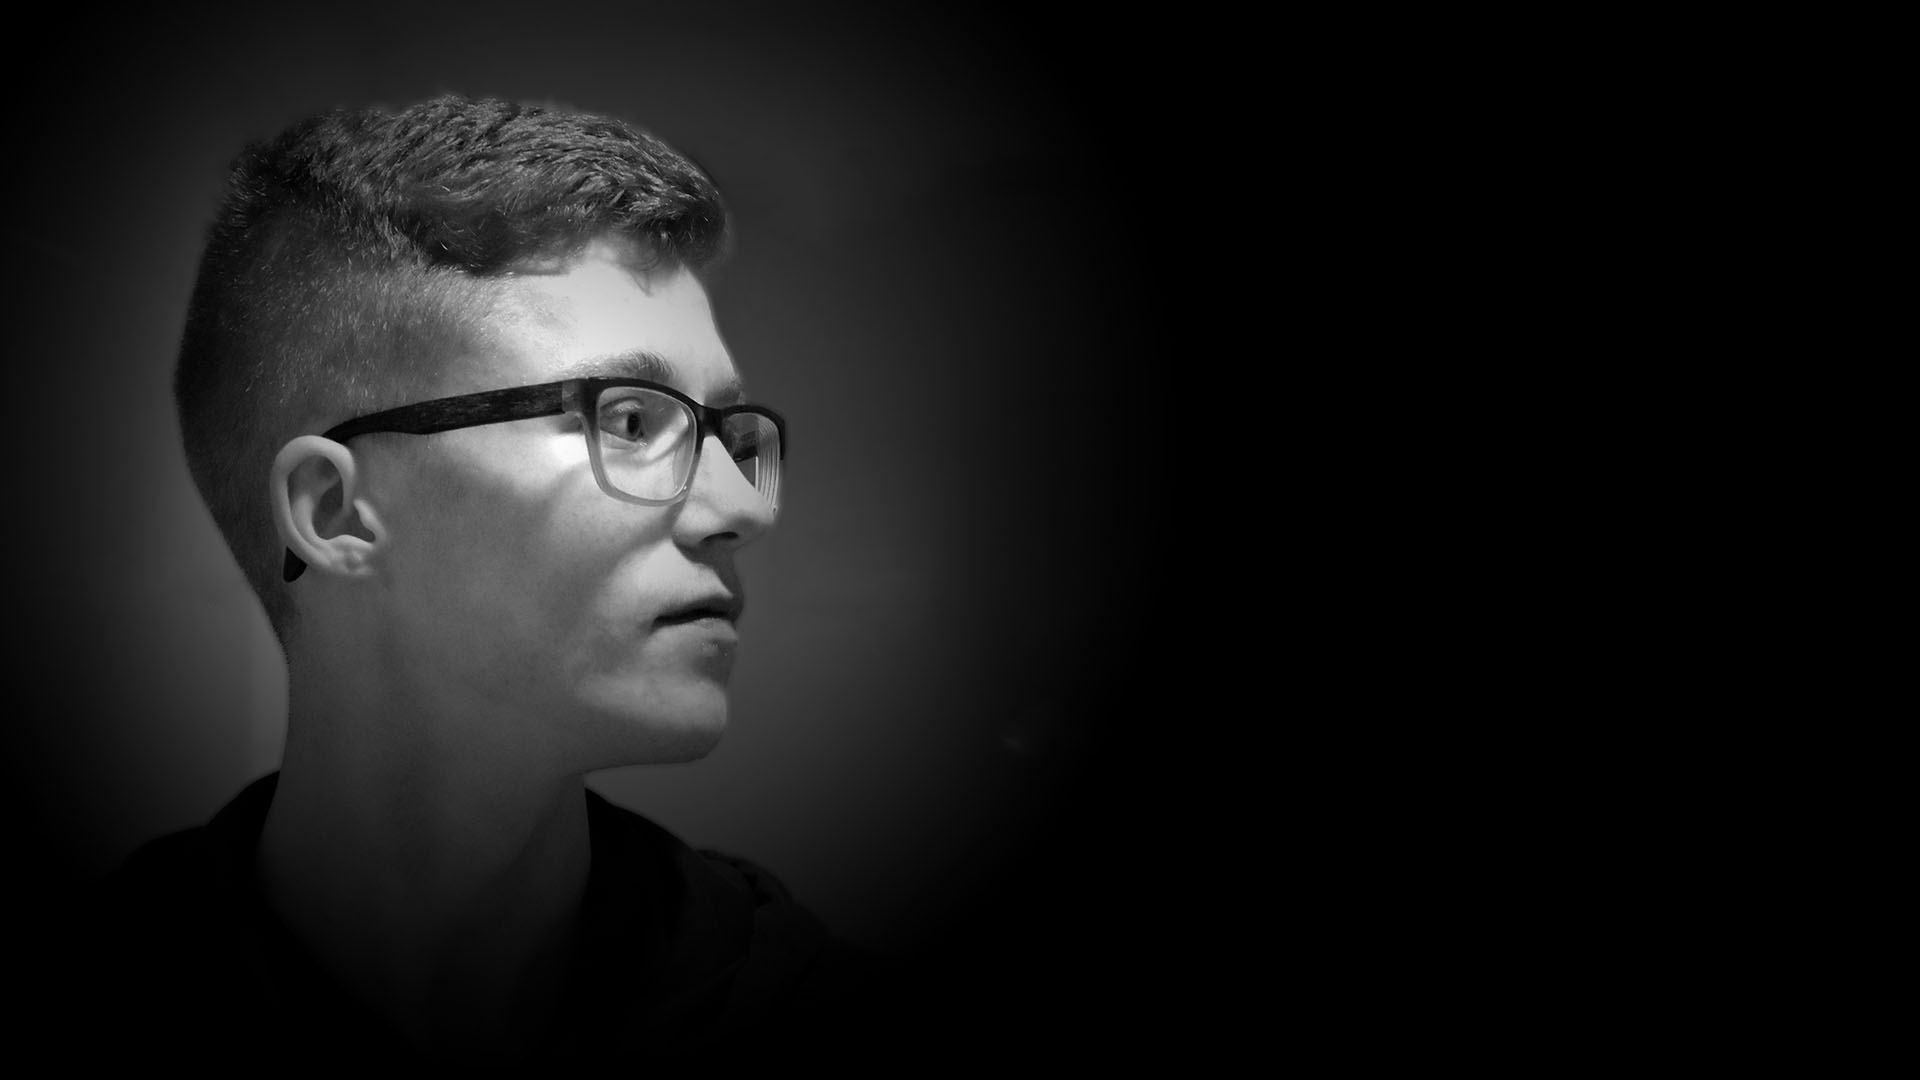
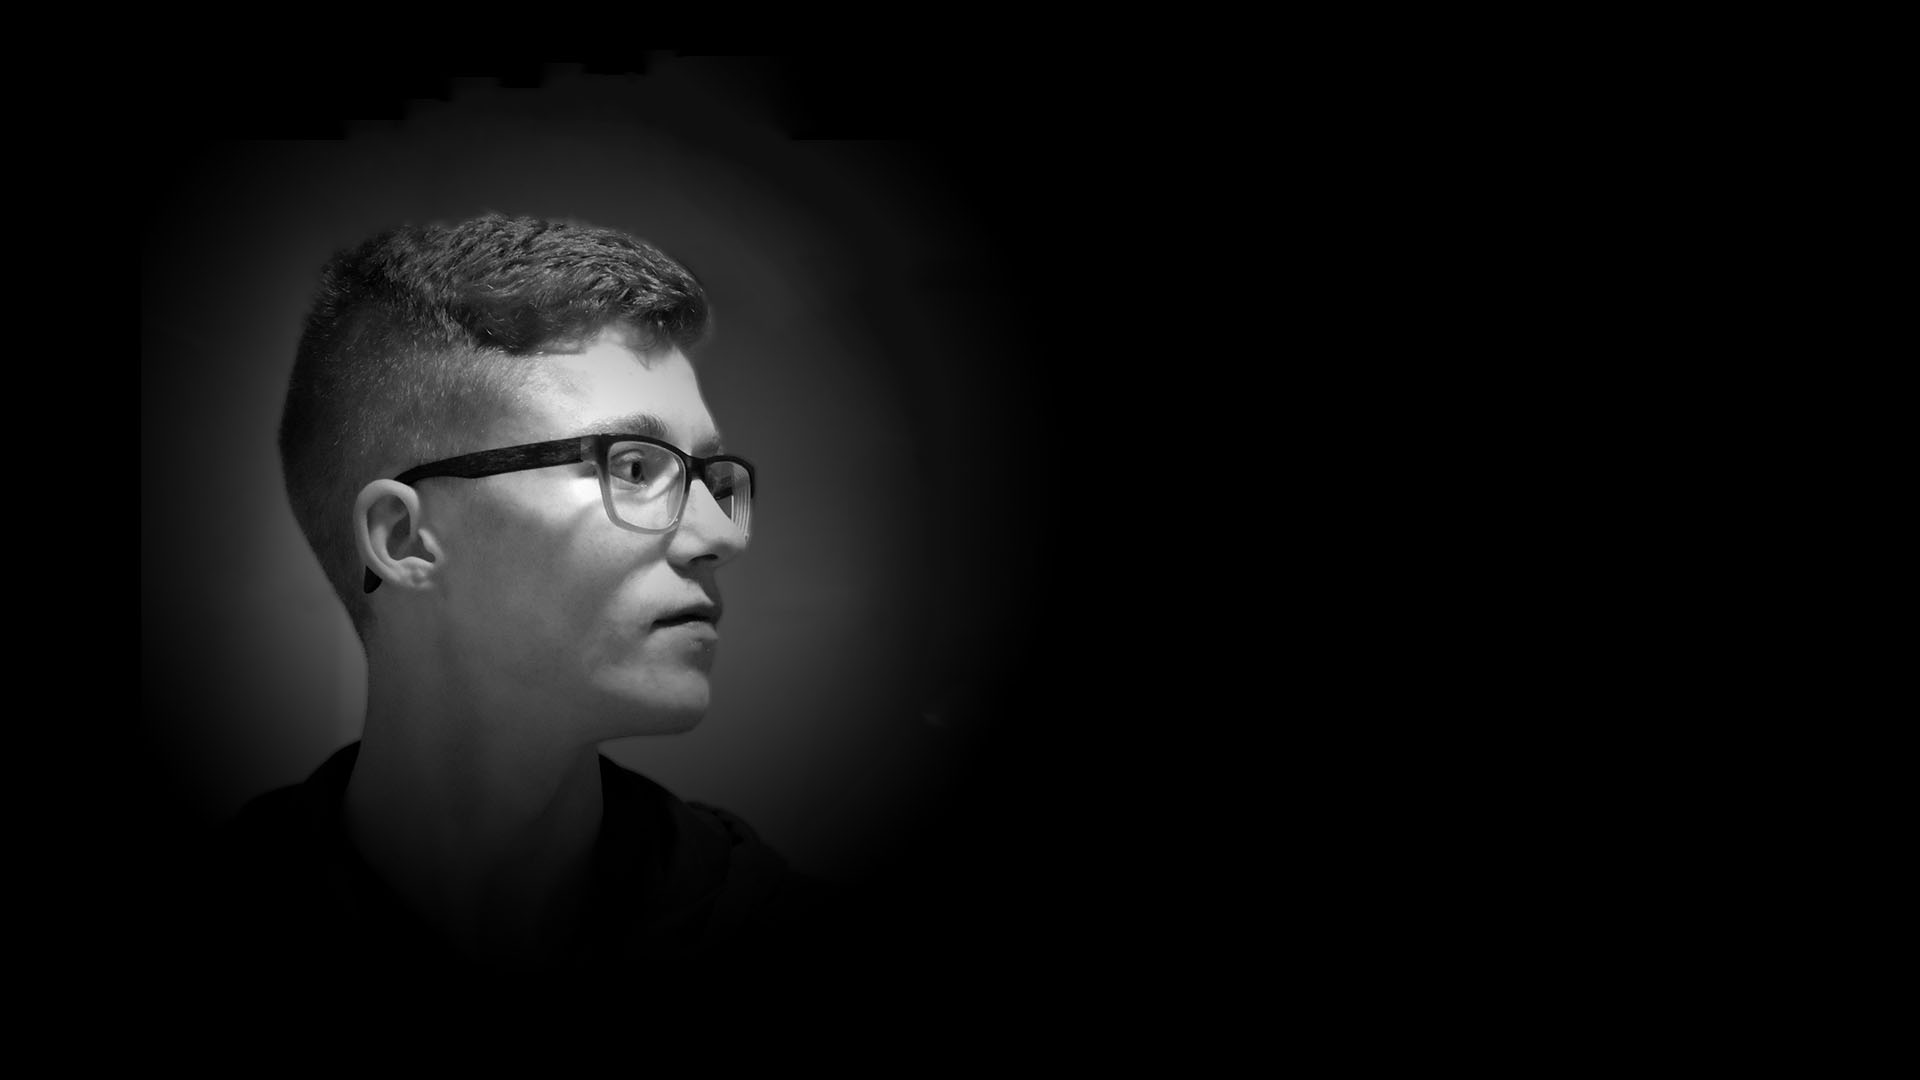
Resize Home Background Image

Changed region(s): [[0.0312, 0.0, 0.4688, 0.7944], [0.3125, 0.7028, 0.4062, 0.7944], [0.3125, 0.6417, 0.4062, 0.7028]]

diff --git a/index.html b/index.html
@@ -1,7 +1,9 @@
 <style>
     body {
+        background-color: black;
         background-image: url("resources/home/PortraitBackground.jpg");
-        background-size: cover;
+        background-size: 100%;
+        background-repeat: no-repeat;
     }
 
     #TextArea {
@@ -50,8 +52,8 @@
     }
 
     td {
-        border-right: 2px solid white;
-        border-left: 2px solid white;
+        border-right: 1px solid white;
+        border-left: 1px solid white;
     }
 </style>
 
